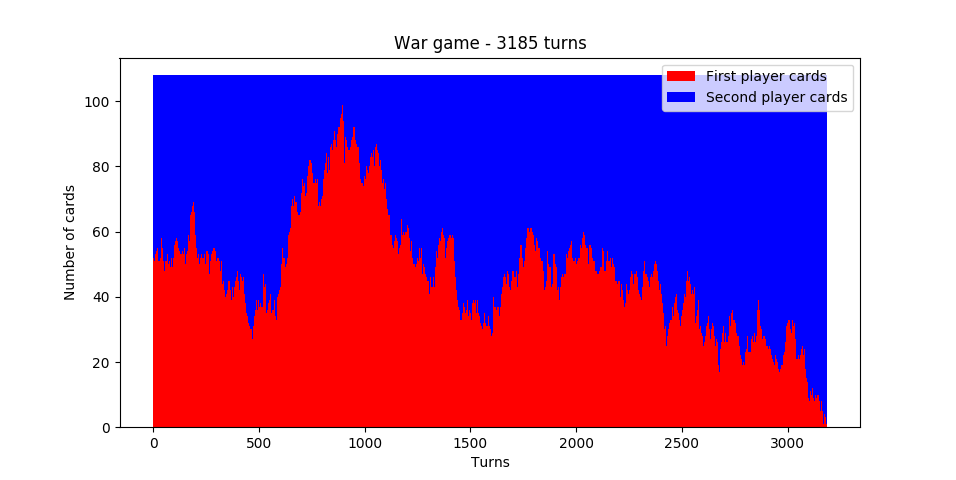
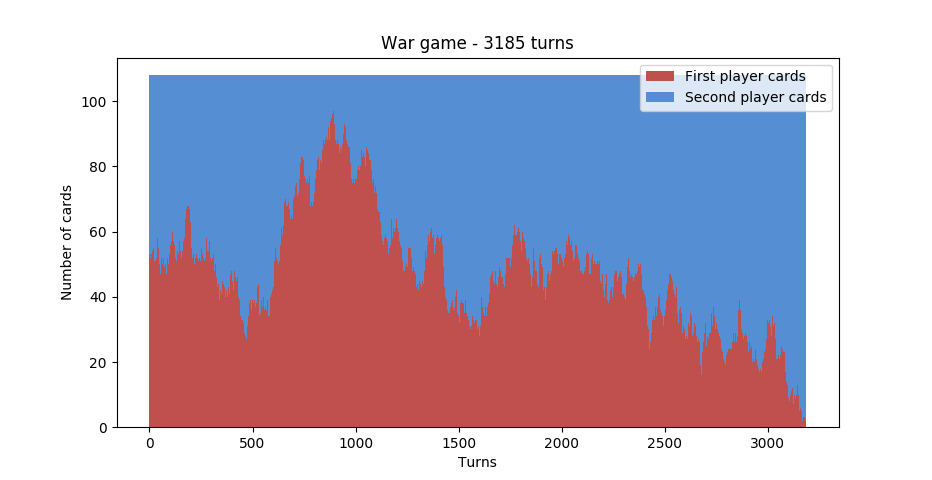
Use more modern colors for the graph

diff --git a/scripts/visualize.py b/scripts/visualize.py
@@ -6,8 +6,8 @@ import sys
 
 def main():
     data = pandas.read_csv(sys.argv[1])
-    red = plt.bar(data.index, data['red_player_cards'], 1, color='red')
-    blue = plt.bar(data.index, data['blue_player_cards'], 1, color='blue', bottom=data['red_player_cards'])
+    red = plt.bar(data.index, data['red_player_cards'], 1, color='#c0504e')
+    blue = plt.bar(data.index, data['blue_player_cards'], 1, color='#558ed3', bottom=data['red_player_cards'])
     plt.ylabel('Number of cards')
     plt.xlabel('Turns')
     plt.legend((red[0], blue[0]), ('First player cards', 'Second player cards'))
